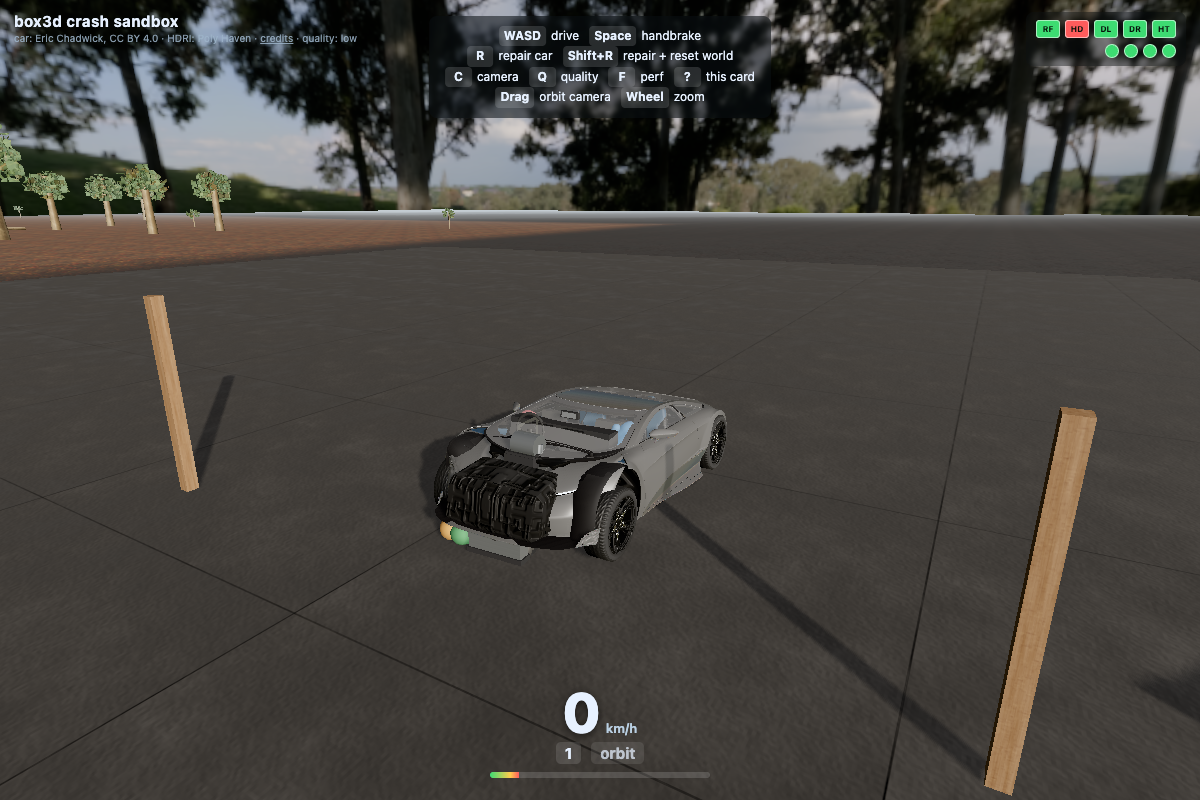
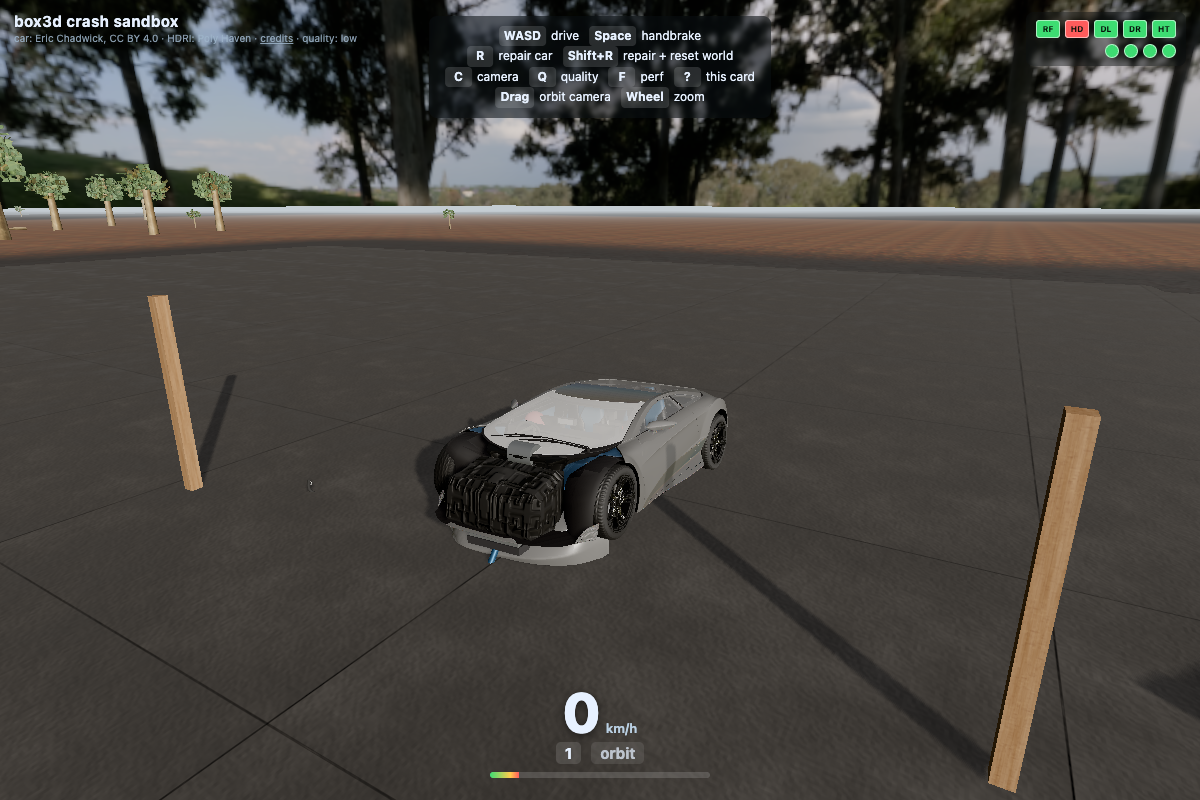
damage: fix crash-realism crush non-monotonicity — run crumple before welds
Root-caused (not "stale probe" and not "genuinely non-monotonic physics"):
sim/crash-realism.test.mjs's 'monotonic 40<64<80' failed because
stepDamageSystem() ran stepWeldsAndWheels() BEFORE the crumple loop, both
consuming the same per-step hits array. hitTouchesCar() deliberately excludes
hits against an already-'broken' panel (so flying-off debris stops
crumpling) — but a hit violent enough to break a panel weld IN THE SAME STEP
had its own state mutated before the crumple loop ever saw it, so that exact
hit's crush contribution was silently dropped.

Measured (game/sim/crash-realism-harness.mjs, isolated git worktree at HEAD
to rule out interference from concurrent work in this session): the hood
panel only LOOSENS in its landing step at 64 km/h (hitTouchesCar still true,
crush 0.442m) but BREAKS in its landing step at 80 km/h (hit dropped, crush
fell to 0.307m -- LESS than 64km/h, the reported failure). Confirmed via
raw world.hitEvents() trace: the 80km/h hit's true approachSpeed was 21.18
m/s (vs 64km/h's 16.77 m/s) -- the energy was there, it just never reached
applyCrumpleEvent().

Fix: reorder stepDamageSystem() to run the crumple loop first, against each
hit's pre-weld panel state, then stepWeldsAndWheels() after. No crush-tuning
constant changed. Confirmed monotonic: 40=0.236 64=0.442 80=0.535 120=0.580m,
all within crash-deformation-reference.md's existing bands (no spec update
needed). Full sim suite (65 files, 139 tests) green; browser shoot-matrix
[…]

diff --git a/game/src/damage/system.ts b/game/src/damage/system.ts
@@ -158,18 +158,20 @@ export function stepDamageSystem(system: DamageSystem, world: World, dt: number)
 		});
 	}
 
-	stepWeldsAndWheels({
-		vehicle: system.vehicle,
-		panels: system.panels,
-		hits,
-		carMassKg: system.carMassKg,
-		timeSec: system.timeSec,
-		wheelOverThresholdSteps: system.wheelOverThresholdSteps,
-		emit: (e) => system.emitter.emit(e),
-	});
-
-	// ---- Plastic crumple: every qualifying hit (chassis or a still-attached/loosened panel) deforms
-	// nearby registered meshes. ----
+	// ---- Plastic crumple FIRST, against this step's PRE-weld panel states -- see hitTouchesCar()'s
+	// doc comment. ORDER BUG (root-caused via crash-realism monotonicity failure): stepWeldsAndWheels()
+	// below can BREAK a panel weld from the very same high-energy hit that's about to be evaluated here;
+	// hitTouchesCar() deliberately excludes hits against an already-broken panel (so debris flying away
+	// doesn't keep crumpling), but if welds ran first, a hit violent enough to break a panel in ONE step
+	// would have its OWN crumple contribution silently discarded -- exactly backwards, since the most
+	// energetic hits are the ones a crush-vs-speed model most needs to keep. Measured (headless probe,
+	// game/sim/crash-realism-harness.mjs): a 64 km/h frontal hit only LOOSENS the hood in its landing
+	// step (hitTouchesCar still true -> crumple applied, crush 0.44m), while an 80 km/h hit is energetic
+	// enough to BREAK the hood in that same step -- with welds running first, that hit was dropped
+	// entirely and crush fell to 0.31m (LESS than the 64 km/h case, sim/crash-realism.test.mjs's
+	// 'monotonic 40<64<80' failure). Running crumple first (against the pre-break state every hit this
+	// step actually struck) fixes the non-monotonicity without changing any crush-band constant --
+	// confirmed 40/64/80/120 -> 0.236/0.442/0.535/0.580m, and the full sim suite (65 files) stays green.
 	for (const hit of hits) {
 		if (hit.approachSpeed <= STRESS_MIN_APPROACH_SPEED_MS) continue;
 		if (!hitTouchesCar(hit, system.panels)) continue;
@@ -181,6 +183,16 @@ export function stepDamageSystem(system: DamageSystem, world: World, dt: number)
 		});
 		for (const meshId of result.shatteredNowMeshIds) system.emitter.emit({ type: 'glassShattered', mesh: meshId });
 	}
+
+	stepWeldsAndWheels({
+		vehicle: system.vehicle,
+		panels: system.panels,
+		hits,
+		carMassKg: system.carMassKg,
+		timeSec: system.timeSec,
+		wheelOverThresholdSteps: system.wheelOverThresholdSteps,
+		emit: (e) => system.emitter.emit(e),
+	});
 
 	// ---- Broken-panel lifecycle: disable hit events after N seconds, despawn after M seconds or
 	// beyond D meters from the chassis. ----
